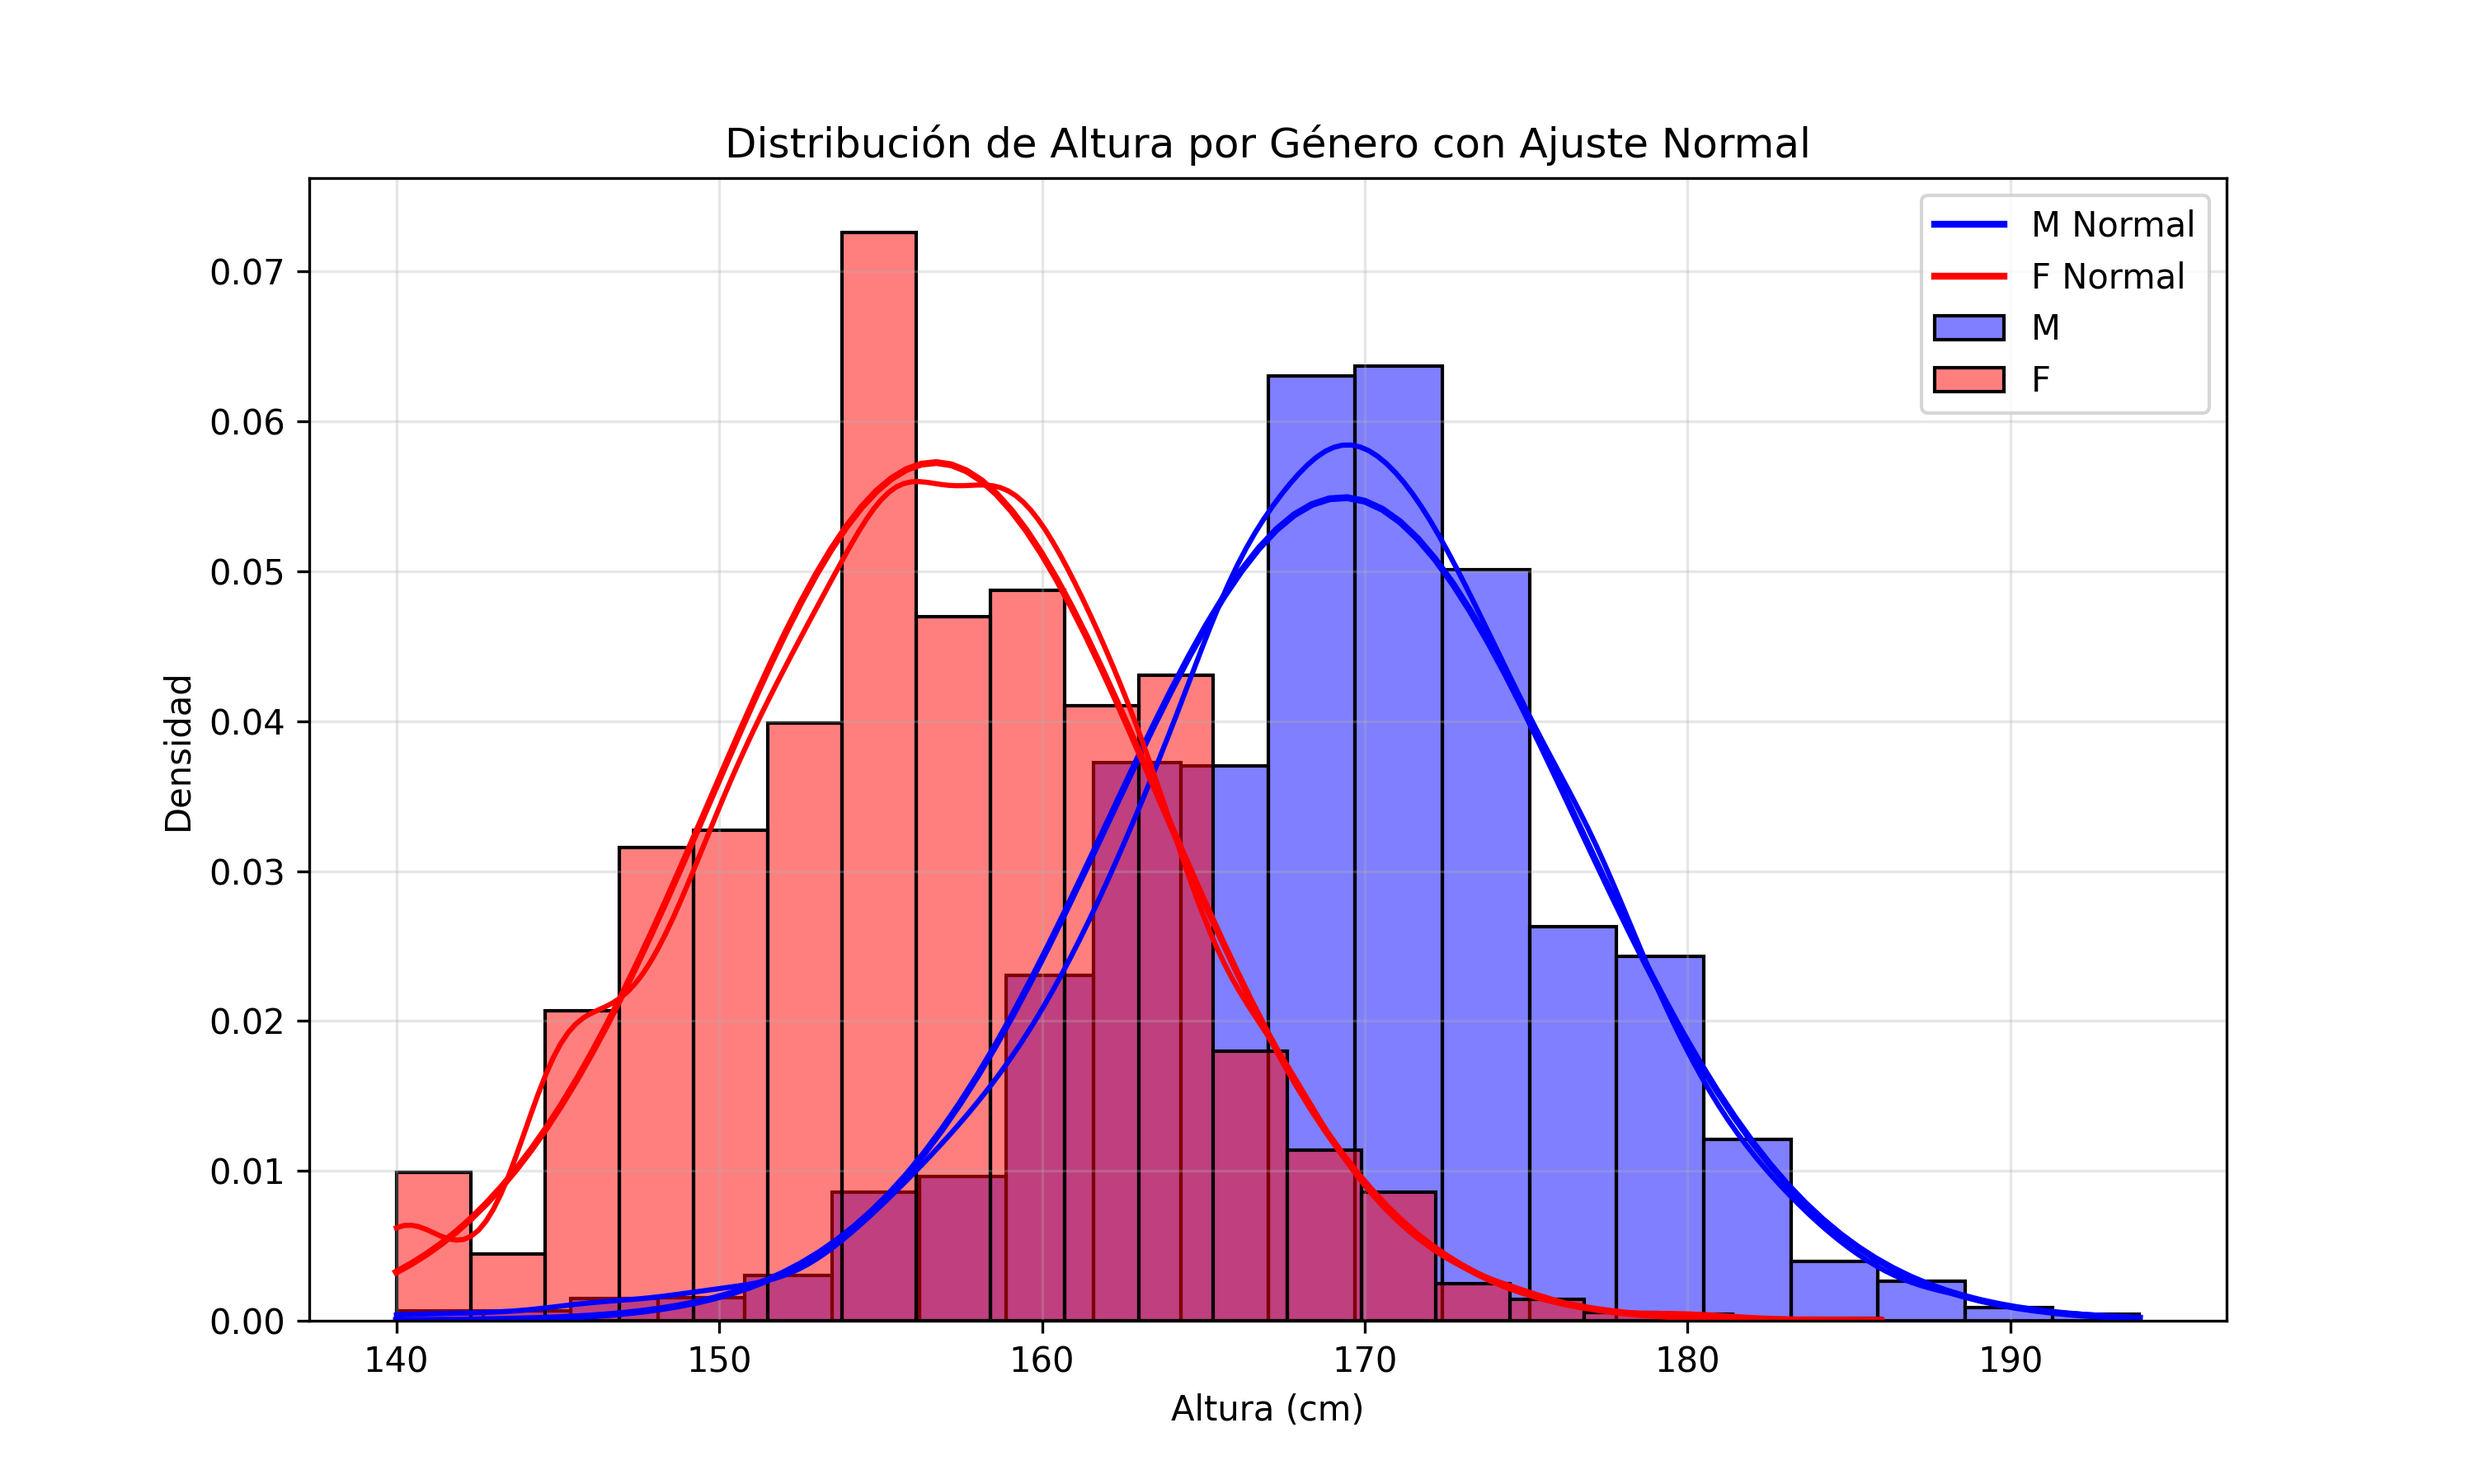
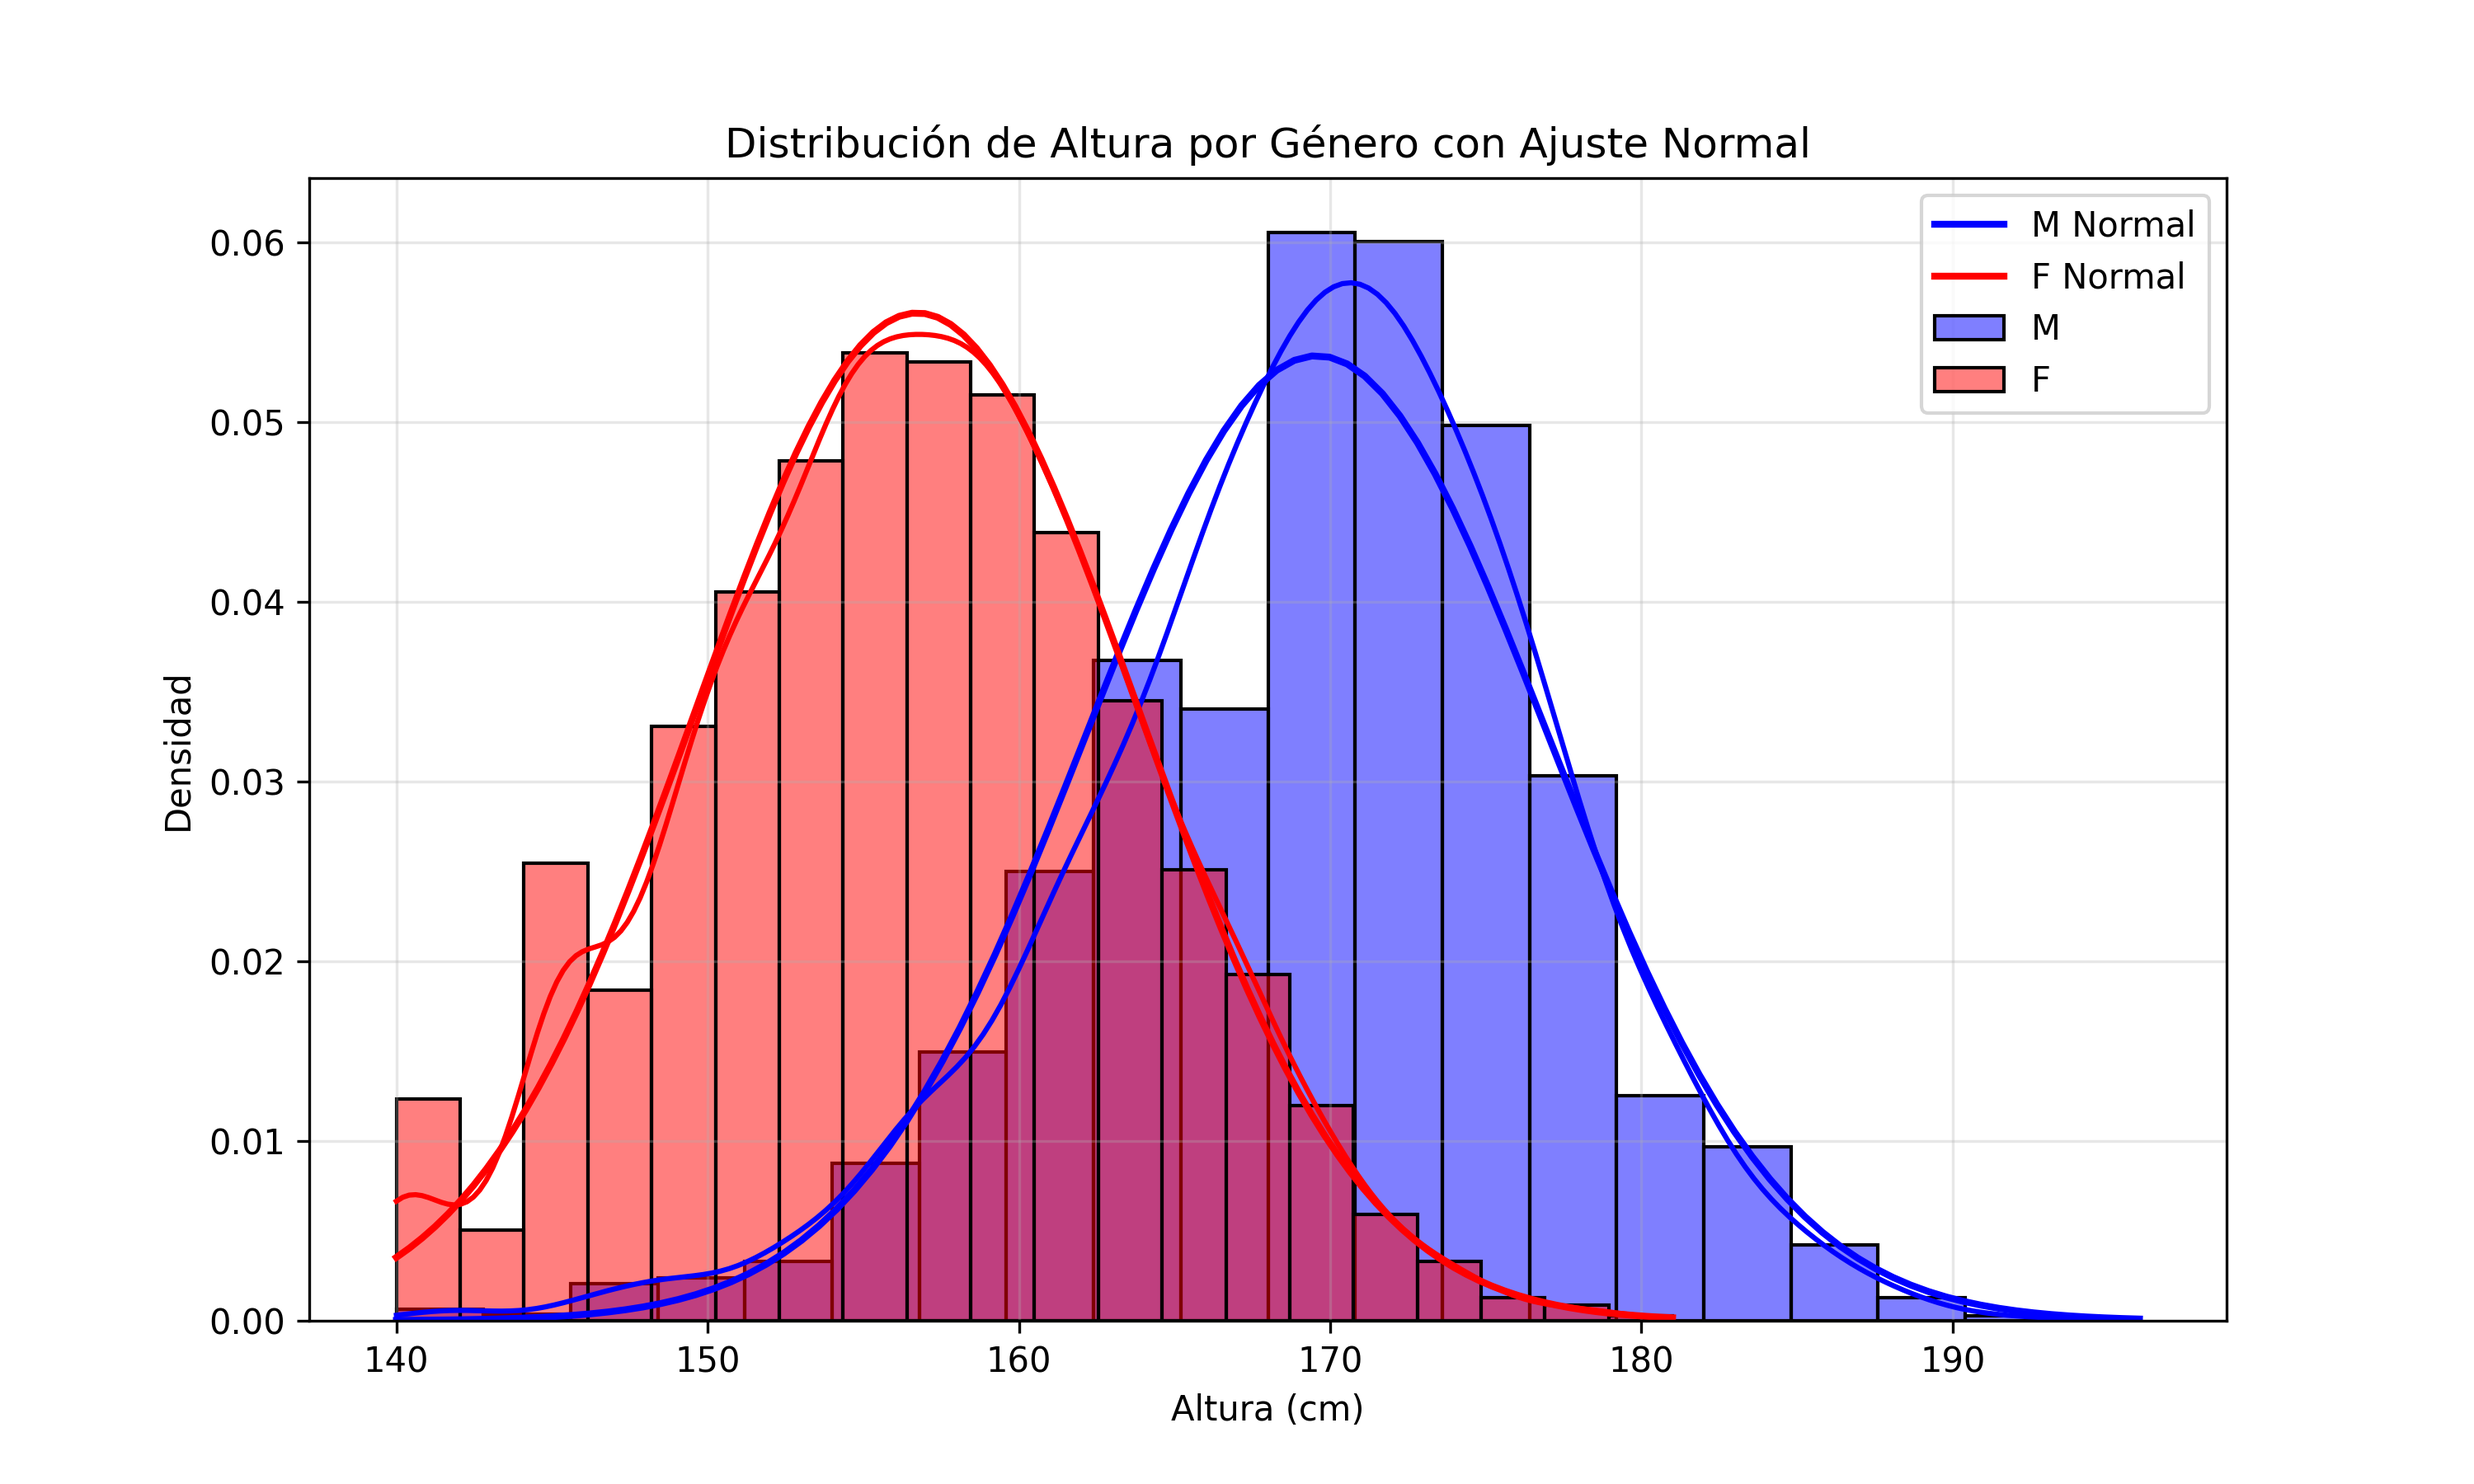
second commit

diff --git a/medical_data_analysis.py b/medical_data_analysis.py
@@ -155,7 +155,7 @@ def clean_and_validate_data(df):
         & (df["Peso (kg)"].between(10, 200, inclusive="both"))
         & (df["Altura (cm)"].between(50, 250, inclusive="both"))
         & (df["IMC"].between(5, 60, inclusive="both"))
-        ]
+    ]
 
     return df, errors
 
@@ -581,7 +581,7 @@ def plot_gender_distribution(df, figsize=(8, 8)):
     plt.close()
 
 
-def main(file_path="data014_medium.csv"):
+def main(file_path="data014_big.csv"):
     """Run analysis and generate visualizations."""
     try:
         # Initialize accumulators for visualizations that need full data
@@ -603,7 +603,9 @@ def main(file_path="data014_medium.csv"):
         print("Processing data in chunks...")
 
         # Process the CSV in chunks
-        for chunk in pd.read_csv(file_path, encoding="utf-8", chunksize=chunksize, dtype=DTYPES):
+        for chunk in pd.read_csv(
+            file_path, encoding="utf-8", chunksize=chunksize, dtype=DTYPES
+        ):
             # Clean and validate each chunk
             df_clean, errors = clean_and_validate_data(chunk)
             total_records += len(df_clean)
@@ -625,13 +627,14 @@ def main(file_path="data014_medium.csv"):
             if not df_clean["Fecha Consulta"].isna().all():
                 chunk_min_date = df_clean["Fecha Consulta"].min()
                 chunk_max_date = df_clean["Fecha Consulta"].max()
-                if min_date is None or (chunk_min_date is not pd.NaT and chunk_min_date < min_date):
+                if min_date is None or (
+                    chunk_min_date is not pd.NaT and chunk_min_date < min_date
+                ):
                     min_date = chunk_min_date
-                if max_date is None or (chunk_max_date is not pd.NaT and chunk_max_date > max_date):
+                if max_date is None or (
+                    chunk_max_date is not pd.NaT and chunk_max_date > max_date
+                ):
                     max_date = chunk_max_date
-
-
-
 
         if not all_dfs:
             print("No valid data after cleaning. Check errors:")

diff --git a/readme.md b/readme.md
@@ -52,11 +52,11 @@ The `data014_big.csv` file contains the following columns:
 
 | Column                 | Description                                   | Data Type | Notes/Relationships                                            |
 |------------------------|-----------------------------------------------|-----------|----------------------------------------------------------------|
-| `ID_Paciente`          | Unique patient ID                             | String    | Duplicates detected (e.g., 'a84711fe')                         |
+| `ID_Paciente`          | Unique patient ID                             | String    | Duplicates detected (e.g., 'dab5fa66')                         |
 | `Nombre`               | Full name                                     | String    | Not analyzed quantitatively                                    |
 | `Género`               | Gender (M/F)                                  | String    | 50% M, 50% F                                                   |
 | `Edad`                 | Age in years                                  | Integer   | Range: 15-100                                                  |
-| `Peso (kg)`            | Weight                                        | Float     | Range: 10-181 kg                                               |
+| `Peso (kg)`            | Weight                                        | Float     | Range: 10-189 kg                                               |
 | `Altura (cm)`          | Height                                        | Integer   | Range: 140-200 cm                                              |
 | `IMC`                  | Body Mass Index                               | Float     | Range: 4.9-37.9                                                |
 | `Presión Arterial`     | Blood pressure (systolic/diastolic mmHg)      | String    | Parsed into `Systolic` and `Diastolic`                         |
@@ -128,7 +128,7 @@ Because the age distribution is normal, the elderly population is more precariou
 
 #### **9. Consultations by Month (`consultations_by_month.png`)**
 ![consultations_by_month.png](img/consultations_by_month.png)
-- **Analysis:** Line plot of consultation counts by month. Shows a spike in 2025-04, possibly due to data collection bias or seasonal illness patterns. On average, 42,000 consultations were carried out per month.
+- **Analysis:** Line plot of consultation counts by month. Shows a spike in 2025-04, possibly due to data collection bias or seasonal illness patterns. On average, 420,000 consultations were carried out per month.
 - **Good:** Identifies temporal trends.
 - **Bad:** Limited time range (2023-04 to 2025-04) restricts seasonal analysis.
 
